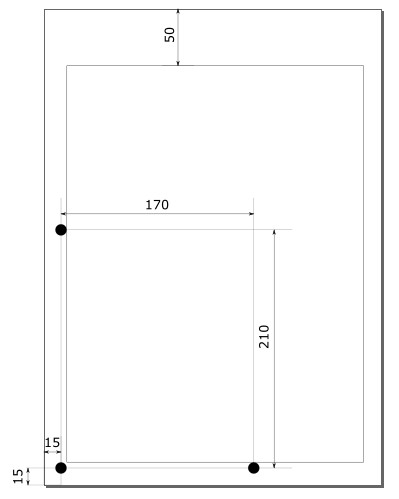
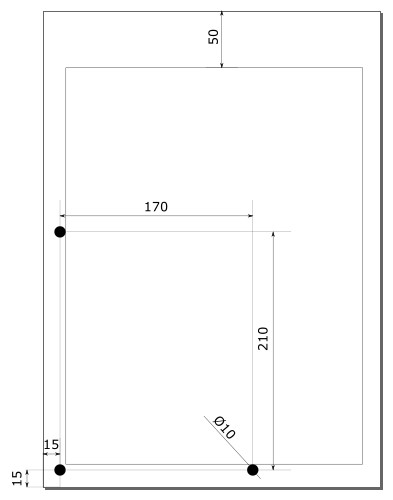
updated paperheads

Changed region(s): [[0.0305, 0.0, 0.9771, 0.992], [0.5191, 0.0601, 0.5802, 0.0902]]

diff --git a/htm/papermodels.htm b/htm/papermodels.htm
@@ -10,7 +10,7 @@
 <p>You will need to install <a href = "https://www.blender.org/">Blender</a> and the <a href = "https://blenderartists.org/forum/showthread.php?186071-Export-Paper-Model">Papermodel Addon</a> for the workshop.<br>
 For the tutorial <a href ="https://www.gimp.org/">Gimp</a> and <a href = "https://inkscape.org/en/">Inkscape</a> are used for editing bitmaps and vector-graphics, but you can also use Photoshop and Illustrator.</p>
     
-Download and install <a href = "https://www.blender.org/download/">Blender</a> and download the <a href = "https://blenderartists.org/forum/showthread.php?186071-Export-Paper-Model">paper-model plugin</a> (<a href ="https://raw.githubusercontent.com/addam/Export-Paper-Model-from-Blender/master/io_export_paper_model.py">direkt link</a>).<br>
+Download and install <a href = "https://www.blender.org/download/">Blender</a> and download the <a href = "https://blenderartists.org/forum/showthread.php?186071-Export-Paper-Model">paper-model plugin</a> (<a href ="https://raw.githubusercontent.com/addam/Export-Paper-Model-from-Blender/master/io_export_paper_model.py">direct link</a>).<br>
 <p>Download and install <a href ="https://www.gimp.org/downloads/">Gimp</a>.</p>
     <p><a href="gimp.htm">Prepare your images.</a></p>
     <p>Download and install <a href = "https://inkscape.org/en/download/">Inkscape</a>.</p>
@@ -100,7 +100,7 @@ Once you finished painting all arround, you should be seeing something like this
 <p><img src="../img/texture_paint_13.jpg"></p>
 <p>And add the texture to your material:</p>
 <p><img src="../img/texture_paint_14.jpg"></p>
-<p>Now we can start using the Papermodel-plugin. It is located on the lowest Tab on the left:</p>
+<p>Now we can start using the Papermodel-plugin. It is located in the "Tool-Shelf" of the 3D-Window (<kbd class="kbd">T</kbd>)</p>
 <p><img src="../img/papermodel01.jpg"></p>
 <p>Click on "Unfold" and then on "Export Paper model".</p>
 <p>These are the settings in the export dialog:</p>
@@ -112,6 +112,22 @@ Textures: from Materials</p>
 and open the resulting image in Inkscape:</p>
 <p><img src="../img/inkscape_01.jpg"></p>
 <p>Now you only need to add the cutmarks for the Roland GX-24<br>
-You should also keep the margins according to this <a href="../img/A3_paperhead_template.svg">template</a>
+You should also keep the margins according to this <a href="../img/A3_paperhead_template.svg">template.</a>
 <p><img src="../img/inkscape_02.jpg"></p>
+<p>The three little circles are for the Vinyl-Cutter for recognizing the orientation of the print.</p>
+<p>A few tricks for extracting the necessary lines:<br>
+Select everything and ungroup it a few times until you have single objects (<kbd class="kbd">Shift</kbd>+<kbd class="kbd">Ctrl</kbd>+<kbd class="kbd">U</kbd>)<br>
+Open the layer dialog and create layers for "cut", "fold", "marks", and "images".(<kbd class="kbd">Shift</kbd>+<kbd class="kbd">Ctrl</kbd>+<kbd class="kbd">L</kbd>)<br>
+Select one of the bitmaps, hit <kbd class="kbd">Ctrl</kbd>+<kbd class="kbd">F</kbd><br>
+Check "Search in": Properties<br>
+"Object type": Images<br>
+Click "Find". It should select all the bitmaps. Move them to their layer by right-clicking --> Move to layer<br>
+</p>
+<p>Select one of the cutlines<br>
+Open the XML-Editor (<kbd class="kbd">Shift</kbd>+<kbd class="kbd">Ctrl</kbd>+<kbd class="kbd">X</kbd><br>
+Click on style and copy the attribute: stroke-width:1.06299222<br>
+Do a <kbd class="kbd">Ctrl</kbd>+<kbd class="kbd">F</kbd><br> and search for the style attribute.<br>
+Do the same for the fold-lines.
+
+</p>
 </div></body></html>
